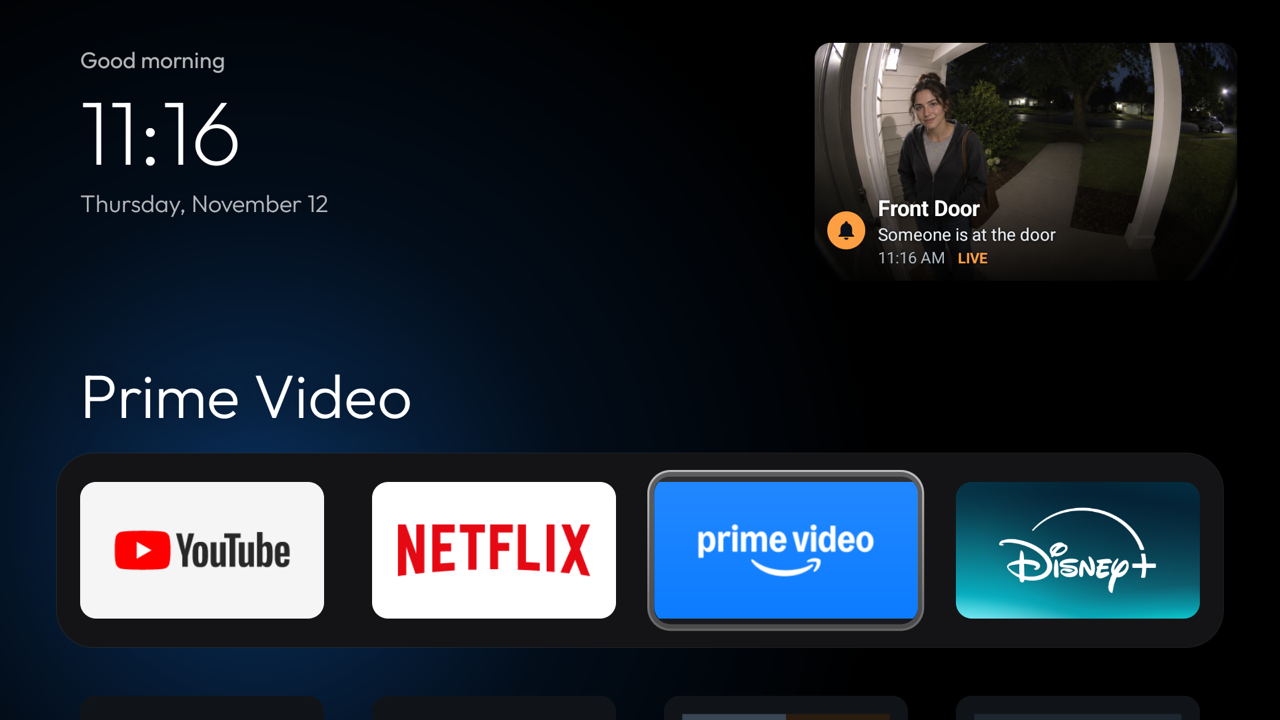
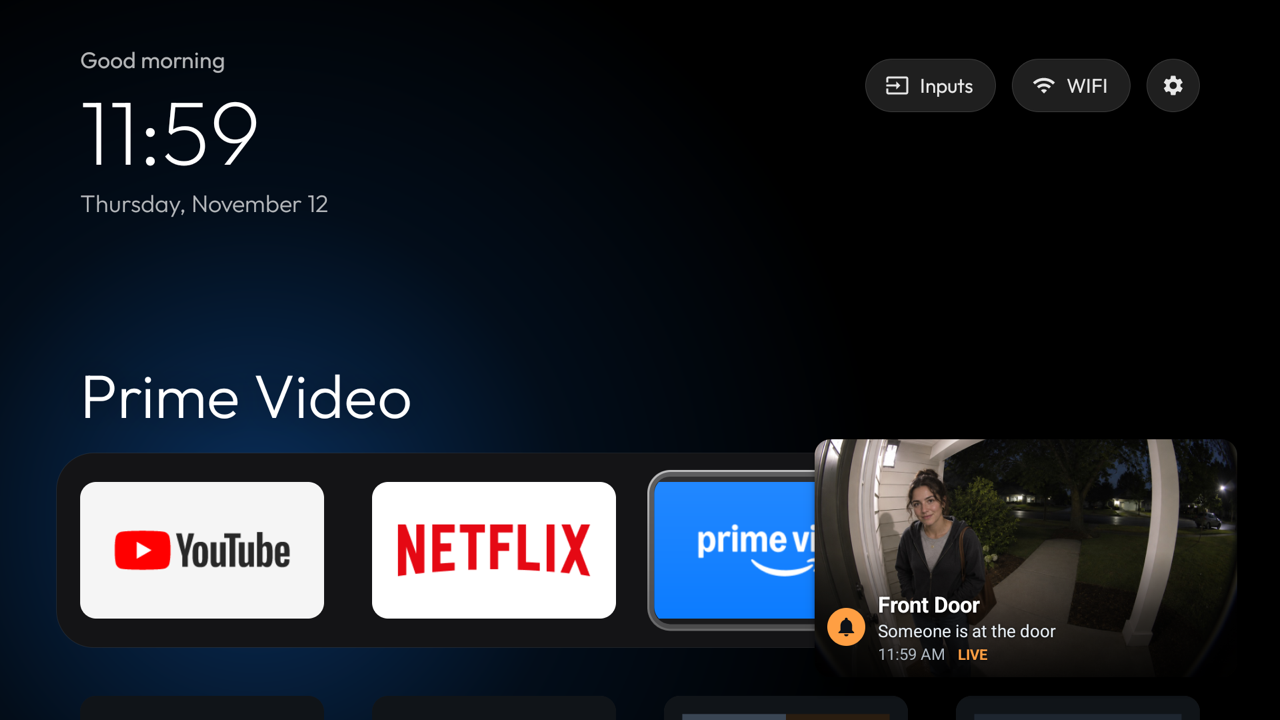
Docs: doorbell screenshot where the video window plays; 0.5.3 TV results

Changed region(s): [[0.625, 0.0611, 0.9688, 0.3667], [0.625, 0.6111, 0.9688, 0.9167], [0.125, 0.1222, 0.2188, 0.2444]]

diff --git a/README.md b/README.md
@@ -32,7 +32,7 @@
 <p align="center"><sub>The video in the corner is a public HLS test stream of <a href="https://peach.blender.org/">Big Buck Bunny</a> (© Blender Foundation, <a href="https://creativecommons.org/licenses/by/3.0/">CC BY 3.0</a>). App banners belong to their owners.</sub></p>
 
 <p align="center">
-  <img src="assets/doorbell-popup.png" alt="The doorbell popup in the top-right corner of a TV's home screen: the door camera's picture fills it, with Front Door, Someone is at the door, 11:16 AM and LIVE over the bottom of the picture" width="720"/>
+  <img src="assets/doorbell-popup.png" alt="The doorbell popup in the bottom-right corner of a TV's home screen, where the video window plays: the door camera's picture fills it, with Front Door, Someone is at the door, 11:59 AM and LIVE over the bottom of the picture" width="720"/>
 </p>
 <p align="center"><sub>A doorbell popup (<a href="#smart-doorbell">Smart doorbell</a>), on a MOKA R8G over its home screen. The door camera is a test picture served as an MJPEG feed from a computer on the same network. App banners belong to their owners.</sub></p>
 
@@ -205,7 +205,7 @@ curl -X POST -H "Authorization: Bearer &lt;token&gt;" -H "Content-Type: applicat
 
 <h2>Tested On</h2>
 
-<p>MOKA R8G (Android 14), on a home app that implements the module-card spec: a public HLS test stream from a camera entry and the same kind of stream from an M3U playlist served on the home network, playing silently in the bottom-right corner over Home; the corner window opaque; Stop. A second video playing underneath (YouTube) was started but not confirmed, so check with what you watch. RTSP was not tried with a real camera. The signed v0.1.0 release APK installed with <code>install.sh</code> (<code>APK=</code>), corner window allowed. HDMI inputs (added for <a href="../../issues/1">#1</a>, v0.2.0): the same TV lists AV and HDMI1 to HDMI3; HDMI1 and HDMI2 opened in the bottom-right corner over Home with nothing plugged in, saying "No picture on HDMI1", and Stop let go of the input. A picture from a plugged-in device was not tried yet. v0.4.0's snapshot and MJPEG cameras, cycling, per-window corner, size and sound, the corner going back after a short one, channels by name over the network and Reopen after restart build and pass the tests, but were not tried on a TV yet. Network control (added for <a href="../../issues/3">#3</a>, v0.3.0), on the same TV with Corner Player in the background over Home: requests without or with a wrong token refused (401), unknown names, bad addresses, paths and methods answered with their errors; <code>POST /play</code> opened HDMI1 (JSON body, <code>seconds=8</code>, closed by itself) and HDMI2 (form body), <code>/status</code> followed, <code>/stop</code> closed it; it was listening again after an in-place update, and switching it off closed the port. Restarting the TV was not tried. Doorbell popups (v0.5.0 to v0.5.2), on the same TV over Home, from <code>curl</code> on the home network: Test doorbell popup on the TV and a ring with no camera showed the banner alone in the top-right corner; a ring with a snapshot address showed the picture with the banner (<code>SNAPSHOT</code>); an MJPEG feed and a snapshot showed the picture filling the popup with the text over it (v0.5.2, <code>LIVE</code> and <code>SNAPSHOT</code>); the chime played (with the TV's sound on); the same press again, motion with Triggers on Ring only, no or a wrong token, a malformed JSON body, an unknown event, too few seconds and an address pointing at the TV were refused or not shown, with their reasons; dismiss closed the popup; a camera name not saved showed the banner alone with a warning; a camera address that didn't answer switched to the banner alone (<code>NO VIDEO</code>); a popup over a camera opened with <code>/play</code> gave the corner back to it when its time was up; <code>/status</code> followed. Not tried yet: the popup over YouTube, Netflix, Live TV or HDMI, an RTSP or HLS stream in a popup, and a real doorbell through Home Assistant. The JVM tests cover the playlist reader, addresses and inputs, hiding camera passwords, the window's place, and network control's requests and token.</p>
+<p>MOKA R8G (Android 14), on a home app that implements the module-card spec: a public HLS test stream from a camera entry and the same kind of stream from an M3U playlist served on the home network, playing silently in the bottom-right corner over Home; the corner window opaque; Stop. A second video playing underneath (YouTube) was started but not confirmed, so check with what you watch. RTSP was not tried with a real camera. The signed v0.1.0 release APK installed with <code>install.sh</code> (<code>APK=</code>), corner window allowed. HDMI inputs (added for <a href="../../issues/1">#1</a>, v0.2.0): the same TV lists AV and HDMI1 to HDMI3; HDMI1 and HDMI2 opened in the bottom-right corner over Home with nothing plugged in, saying "No picture on HDMI1", and Stop let go of the input. A picture from a plugged-in device was not tried yet. v0.4.0's snapshot and MJPEG cameras, cycling, per-window corner, size and sound, the corner going back after a short one, channels by name over the network and Reopen after restart build and pass the tests, but were not tried on a TV yet. Network control (added for <a href="../../issues/3">#3</a>, v0.3.0), on the same TV with Corner Player in the background over Home: requests without or with a wrong token refused (401), unknown names, bad addresses, paths and methods answered with their errors; <code>POST /play</code> opened HDMI1 (JSON body, <code>seconds=8</code>, closed by itself) and HDMI2 (form body), <code>/status</code> followed, <code>/stop</code> closed it; it was listening again after an in-place update, and switching it off closed the port. Restarting the TV was not tried. Doorbell popups (v0.5.0 to v0.5.3), on the same TV over Home, from <code>curl</code> on the home network: Test doorbell popup on the TV and a ring with no camera showed the banner alone in the top-right corner; a ring with a snapshot address showed the picture with the banner (<code>SNAPSHOT</code>); an MJPEG feed and a snapshot showed the picture filling the popup with the text over it (v0.5.2, <code>LIVE</code> and <code>SNAPSHOT</code>); the chime played (with the TV's sound on); a popup over a video in the corner took that window's exact place and size (bottom right by default, and a small top-left window opened with <code>/play</code>), over an empty corner the video window's default place, and the corner went back to the video afterwards (v0.5.3); the same press again, motion with Triggers on Ring only, no or a wrong token, a malformed JSON body, an unknown event, too few seconds and an address pointing at the TV were refused or not shown, with their reasons; dismiss closed the popup; a camera name not saved showed the banner alone with a warning; a camera address that didn't answer switched to the banner alone (<code>NO VIDEO</code>); a popup over a camera opened with <code>/play</code> gave the corner back to it when its time was up; <code>/status</code> followed. Not tried yet: the popup over YouTube, Netflix, Live TV or HDMI, an RTSP or HLS stream in a popup, and a real doorbell through Home Assistant. The JVM tests cover the playlist reader, addresses and inputs, hiding camera passwords, the window's place, and network control's requests and token.</p>
 
 <h2>Origin</h2>
 

diff --git a/docs/doorbell.md b/docs/doorbell.md
@@ -6,7 +6,7 @@ name, "Someone is at the door", the time, and the door camera's picture when one
 keeps playing and keeps the remote.
 
 <p align="center">
-  <img src="../assets/doorbell-popup.png" alt="The doorbell popup in the top-right corner of a TV's home screen: the door camera's picture fills it, with Front Door, Someone is at the door, 11:16 AM and LIVE over the bottom of the picture" width="720"/>
+  <img src="../assets/doorbell-popup.png" alt="The doorbell popup in the bottom-right corner of a TV's home screen, where the video window plays: the door camera's picture fills it, with Front Door, Someone is at the door, 11:59 AM and LIVE over the bottom of the picture" width="720"/>
 </p>
 <p align="center"><sub>On a MOKA R8G over its home screen. The door camera is a test picture served as an MJPEG feed from a computer on the same network. App banners belong to their owners.</sub></p>
 
